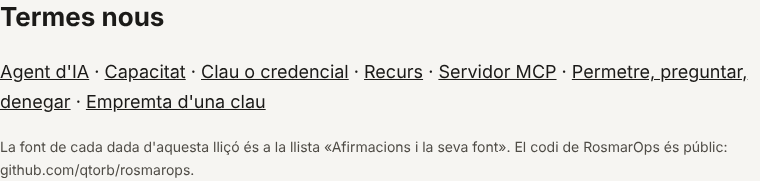
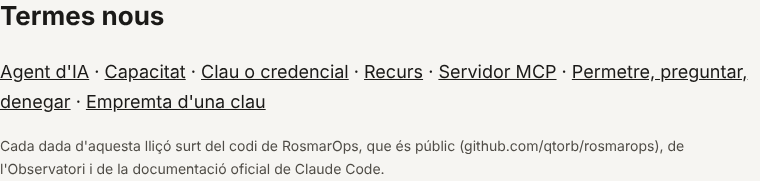
GTM-215 B.5: lesson footer from block 178; by-hand literal check in tools/course
Claude-Session: https://claude.ai/code/session_01BRBcDRtosF3jfp345kMzLw

Changed region(s): [[0.0, 0.7735, 0.9684, 0.8564], [0.0, 0.884, 0.5145, 0.9945], [0.0, 0.0276, 0.2118, 0.1657]]

diff --git a/site/ca/curs/la-cadena/index.html b/site/ca/curs/la-cadena/index.html
@@ -86,7 +86,7 @@ footer nav{gap:20px;font-size:15px}
 <div class="doc cs-quiz"><h2>Test</h2>
 <div id="cs-test"></div></div>
 <div class="doc cs-terms"><h2>Termes nous</h2><p><a href="/ca/glossari/#agent">Agent d&#x27;IA</a> · <a href="/ca/glossari/#capability">Capacitat</a> · <a href="/ca/glossari/#credential">Clau o credencial</a> · <a href="/ca/glossari/#resource">Recurs</a> · <a href="/ca/glossari/#mcp">Servidor MCP</a> · <a href="/ca/glossari/#permetre-preguntar-denegar">Permetre, preguntar, denegar</a> · <a href="/ca/glossari/#empremta-duna-clau">Empremta d&#x27;una clau</a></p>
-<p class="cs-note">La font de cada dada d&#x27;aquesta lliçó és a la llista «Afirmacions i la seva font». El codi de RosmarOps és públic: github.com/qtorb/rosmarops.</p></div>
+<p class="cs-note">Cada dada d&#x27;aquesta lliçó surt del codi de RosmarOps, que és públic (github.com/qtorb/rosmarops), de l&#x27;Observatori i de la documentació oficial de Claude Code.</p></div>
 </div></main>
 
 <footer><div class="wrap">

diff --git a/site/es/curso/la-cadena/index.html b/site/es/curso/la-cadena/index.html
@@ -86,7 +86,7 @@ footer nav{gap:20px;font-size:15px}
 <div class="doc cs-quiz"><h2>Test</h2>
 <div id="cs-test"></div></div>
 <div class="doc cs-terms"><h2>Términos nuevos</h2><p><a href="/es/glosario/#agent">Agente</a> · <a href="/es/glosario/#capability">Capacidad</a> · <a href="/es/glosario/#credential">Credencial</a> · <a href="/es/glosario/#resource">Recurso</a> · <a href="/es/glosario/#mcp">Servidor MCP</a> · <a href="/es/glosario/#permitir-preguntar-denegar">Permitir, preguntar, denegar</a> · <a href="/es/glosario/#huella-de-una-clave">Huella de una clave</a></p>
-<p class="cs-note">La fuente de cada dato de esta lección está en la lista «Afirmaciones y su fuente». El código de RosmarOps es público: github.com/qtorb/rosmarops.</p></div>
+<p class="cs-note">Cada dato de esta lección sale del código de RosmarOps, que es público (github.com/qtorb/rosmarops), del Observatorio y de la documentación oficial de Claude Code.</p></div>
 </div></main>
 
 <footer><div class="wrap">

diff --git a/site/course/the-chain/index.html b/site/course/the-chain/index.html
@@ -86,7 +86,7 @@ footer nav{gap:20px;font-size:15px}
 <div class="doc cs-quiz"><h2>Test</h2>
 <div id="cs-test"></div></div>
 <div class="doc cs-terms"><h2>New terms</h2><p><a href="/glossary/#agent">AI agent</a> · <a href="/glossary/#capability">Capability</a> · <a href="/glossary/#credential">Key or credential</a> · <a href="/glossary/#resource">Resource</a> · <a href="/glossary/#mcp">MCP server</a> · <a href="/glossary/#allow-ask-deny">Allow, ask, deny</a> · <a href="/glossary/#key-fingerprint">Key fingerprint</a></p>
-<p class="cs-note">The source of every fact in this lesson is in the list «Claims and their source». RosmarOps&#x27;s code is public: github.com/qtorb/rosmarops.</p></div>
+<p class="cs-note">Every fact in this lesson comes from RosmarOps&#x27;s code, which is public (github.com/qtorb/rosmarops), from the Observatory and from Claude Code&#x27;s official documentation.</p></div>
 </div></main>
 
 <footer><div class="wrap">

diff --git a/tools/course/check_signed.py b/tools/course/check_signed.py
@@ -1,0 +1,65 @@
+"""GTM-206: checks that every text of a course lesson is literal in the documents Albert signed.
+
+Run by hand, with a local copy of qtorb/rosmarops-vigil (CI cannot read that repository):
+
+    python3 tools/course/check_signed.py ../rosmarops-vigil
+
+Lesson 2 («The chain»), observatory/data/course/the-chain.json:
+- close.footer comes from docs/briefs/GTM-215.md (block 178, B.5);
+- every other text comes from docs/research/2026-11-24-curso-publico-leccion-piloto.md (ES) and
+  docs/research/2026-11-24-curso-publico-leccion-2-en-ca.md (EN, CA).
+Exit code 1 and the list of texts that are not found, if any.
+"""
+import json
+import re
+import sys
+from pathlib import Path
+
+ROOT = Path(__file__).resolve().parents[2]
+DATA = ROOT / "observatory" / "data" / "course" / "the-chain.json"
+LESSON = ["docs/research/2026-11-24-curso-publico-leccion-piloto.md",
+          "docs/research/2026-11-24-curso-publico-leccion-2-en-ca.md"]
+FOOTER = ["docs/briefs/GTM-215.md"]
+
+
+def norm(s):
+    return re.sub(r"\s+", " ", s.replace("**", "").replace("`", "")).strip()
+
+
+def strings(x, path=()):
+    if isinstance(x, str):
+        yield path, x
+    elif isinstance(x, list):
+        for i, y in enumerate(x):
+            yield from strings(y, path + (i,))
+    elif isinstance(x, dict):
+        for k, y in x.items():
+            yield from strings(y, path + (k,))
+
+
+def missing(vigil, data):
+    lesson = norm(" ".join((vigil / p).read_text(encoding="utf-8") for p in LESSON))
+    footer = norm(" ".join((vigil / p).read_text(encoding="utf-8") for p in FOOTER))
+    out = []
+    for lang in ("en", "es", "ca"):
+        for path, s in strings(data[lang], (lang,)):
+            if not s or s.startswith("/"):
+                continue
+            if path[1:3] == ("close", "terms") and path[-1] == 1:
+                continue  # glossary ids, not text
+            where = footer if path[1:] == ("close", "footer") else lesson
+            # {name} placeholders: the signed text may use another name ({fuente}, {aciertos})
+            rx = re.escape(norm(s)).replace(r"\{", "{").replace(r"\}", "}")
+            rx = re.sub(r"\{\w+\}", r"\\{\\w+\\}", rx)
+            if not re.search(rx, where):
+                out.append((path, s))
+    return out
+
+
+if __name__ == "__main__":
+    vigil = Path(sys.argv[1]) if len(sys.argv) > 1 else ROOT.parent / "rosmarops-vigil"
+    bad = missing(vigil, json.loads(DATA.read_text(encoding="utf-8")))
+    for path, s in bad:
+        print("/".join(map(str, path)), "|", s)
+    print(len(bad), "texts not found")
+    sys.exit(1 if bad else 0)

diff --git a/observatory/tests/test_course_pages.py b/observatory/tests/test_course_pages.py
@@ -67,6 +67,17 @@ class Texts(unittest.TestCase):
             first = course_pages.fmt(MESSAGES[lang]["allow0"])
             self.assertIn(f'id="cs-msg" role="status" aria-live="polite">{first}</div>', page(lang), lang)
 
+    def test_footer_is_literal_from_block_178(self):
+        """GTM-215 B.5 (vigil docs/briefs/GTM-215.md): the footer names no list; the repository goes as text."""
+        want = {
+            "es": "Cada dato de esta lección sale del código de RosmarOps, que es público (github.com/qtorb/rosmarops), del Observatorio y de la documentación oficial de Claude Code.",
+            "en": "Every fact in this lesson comes from RosmarOps's code, which is public (github.com/qtorb/rosmarops), from the Observatory and from Claude Code's official documentation.",
+            "ca": "Cada dada d'aquesta lliçó surt del codi de RosmarOps, que és públic (github.com/qtorb/rosmarops), de l'Observatori i de la documentació oficial de Claude Code.",
+        }
+        for lang, text in want.items():
+            self.assertEqual(DATA[lang]["close"]["footer"], text, lang)
+            self.assertIn(course_pages.esc(text), page(lang), lang)
+
     def test_no_forbidden_words(self):
         course_pages.check(DATA)
 

diff --git a/README.md b/README.md
@@ -29,7 +29,7 @@ The glossary pages (`/glossary/`, `/es/glosario/`, `/ca/glossari/`), the «i» h
 
 Lesson 2 of the public course, «The chain», lives at `/course/the-chain/`, `/es/curso/la-cadena/` and `/ca/curs/la-cadena/` (GTM-206).
 
-- Its texts are in `observatory/data/course/the-chain.json`, copied literally from the signed documents in rosmarops-vigil (see the file's `_source`). Change the signed document first, then this file. `**x**` is bold and `` `x` `` is code.
+- Its texts are in `observatory/data/course/the-chain.json`, copied literally from the signed documents in rosmarops-vigil (see the file's `_source`). Change the signed document first, then this file. `**x**` is bold and `` `x` `` is code. To check that every text is still literal, run `python3 tools/course/check_signed.py <path to a copy of rosmarops-vigil>` by hand (CI cannot read that repository); the footer is checked against `docs/briefs/GTM-215.md`, the rest against the two lesson documents.
 - `observatory/build.py` writes the three pages (or run `python3 observatory/course_pages.py`). Their styles and script are `site/assets/course/chain.css` and `chain.js`, which read the texts from the page itself.
 - What a visitor does in the lesson (the permissions they try, their answers in the game and the test) stays in the page: nothing goes into the address, the browser's storage or cookies, and nothing is sent. The page still counts a visit like every page of the site.
 - The download button in the exercise sends `from=course`, which the counter keeps as its own source, `course`.
